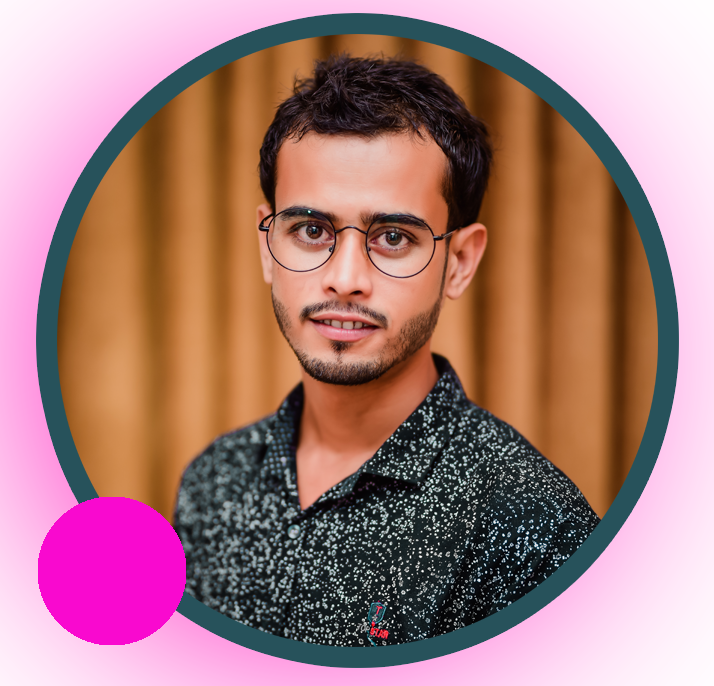
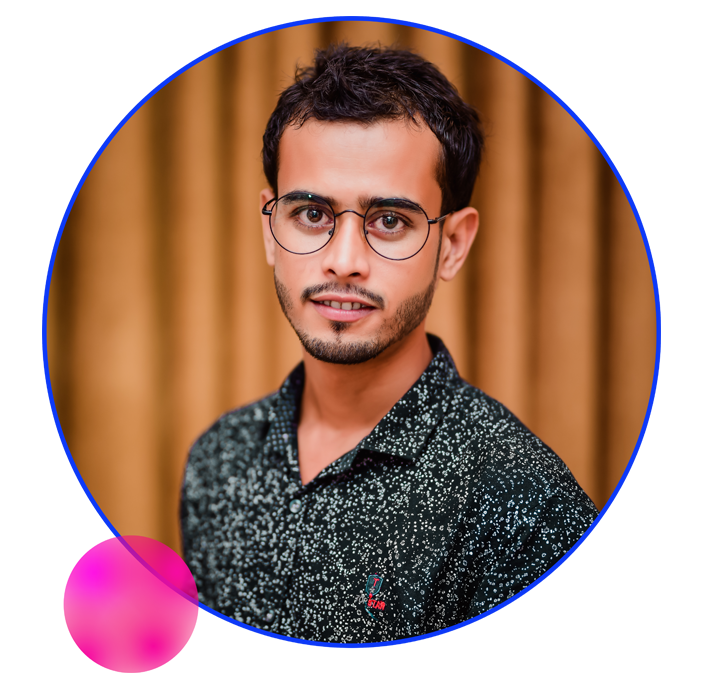
added style

diff --git a/index.html b/index.html
@@ -6,11 +6,49 @@
     <meta http-equiv="X-UA-Compatible" content="IE=edge">
     <meta name="viewport" content="width=device-width, initial-scale=1.0">
     <title>This is Developer Protfolio</title>
+    <link rel="preconnect" href="https://fonts.googleapis.com">
+    <link rel="preconnect" href="https://fonts.gstatic.com" crossorigin>
+    <link href="https://fonts.googleapis.com/css2?family=Poppins&display=swap" rel="stylesheet">
+    <link rel="stylesheet" href="style.css">
 </head>
 
 <body>
-    <h1>Welcome To </h1>
-    <h1>Jonior Developer SOJiB DAS World</h1>
+    <section class="top-bannar">
+        <div class="half-width">
+            <h1 class="h1">Welcome To </h1>
+            <h1 class="h2">Jonior Developer <span class="sd">SOJiB DAS</span> World</h1>
+            <p class="pj">
+                My name is <span class="sd">SOJiB DAS</span> I’m a dreamer, I’m a believer and I’m a doer. I am well
+                known for my
+                presentation
+                skill. I
+                can speak very well both in Bengali and English. Another quality of me that I feel proud of is – I’m a
+                quick
+                learner and self-motivated person. I have learned to using computer by myself without anyone’s help.
+                It’s a
+                tough job for most people.I was born and brought up in Dewkhola,Fulbaria, Mymensingh, Bangladesh. I’ve
+                spend
+                my
+                childhood in the midst of greenery, in a remote village. . My father is a tailor worked and my mother
+                does
+                what
+                she loves the most, she takes care of us.I am frank and pretty friendly. Some say I’m introvert but when
+                it
+                comes to public speaking, I sure talk! I have my only weakness which is, I can’t say No to people. I
+                find it
+                difficult to refuse people specially when it’s about helping them.
+
+            </p>
+            <a class="link-media" target="_blank" href="https://www.linkedin.com/in/sojib-das-3b88711bb/">HIRE ME</a>
+        </div>
+
+        <div class="half-width">
+            <img src="images/sojib.png" alt="This is sojib cox's bazer photos">
+        </div>
+
+
+    </section>
+
 </body>
 
 </html>

diff --git a/style.css b/style.css
@@ -1,0 +1,45 @@
+body{
+    font-family: 'Poppins', sans-serif;
+    margin: 0px;
+}
+section{
+    display: flex;
+    
+}
+.half-width{
+    width: 50%;
+    
+}
+.half-width img{
+    width: 100%;
+    
+}
+.h1{
+    font-size: 50px;
+    padding-left: 40px;
+}
+.h2{
+    font-size: 40px;
+    padding-left: 40px;
+}
+.sd{
+    color: orangered;
+}
+.pj{
+    text-align:justify;
+    padding-left: 10px;
+    padding-left: 40px;
+}
+.link-media{
+    background-image: linear-gradient(orange,tomato);
+    padding: 10px 18px;
+    text-decoration: none;
+    color: white;
+    font-weight: 700;
+    border-radius: 7px;
+    margin-left: 40px;
+}
+.top-bannar{
+    background-image: url(images/top-banner.png);
+    background-repeat: no-repeat;
+}
